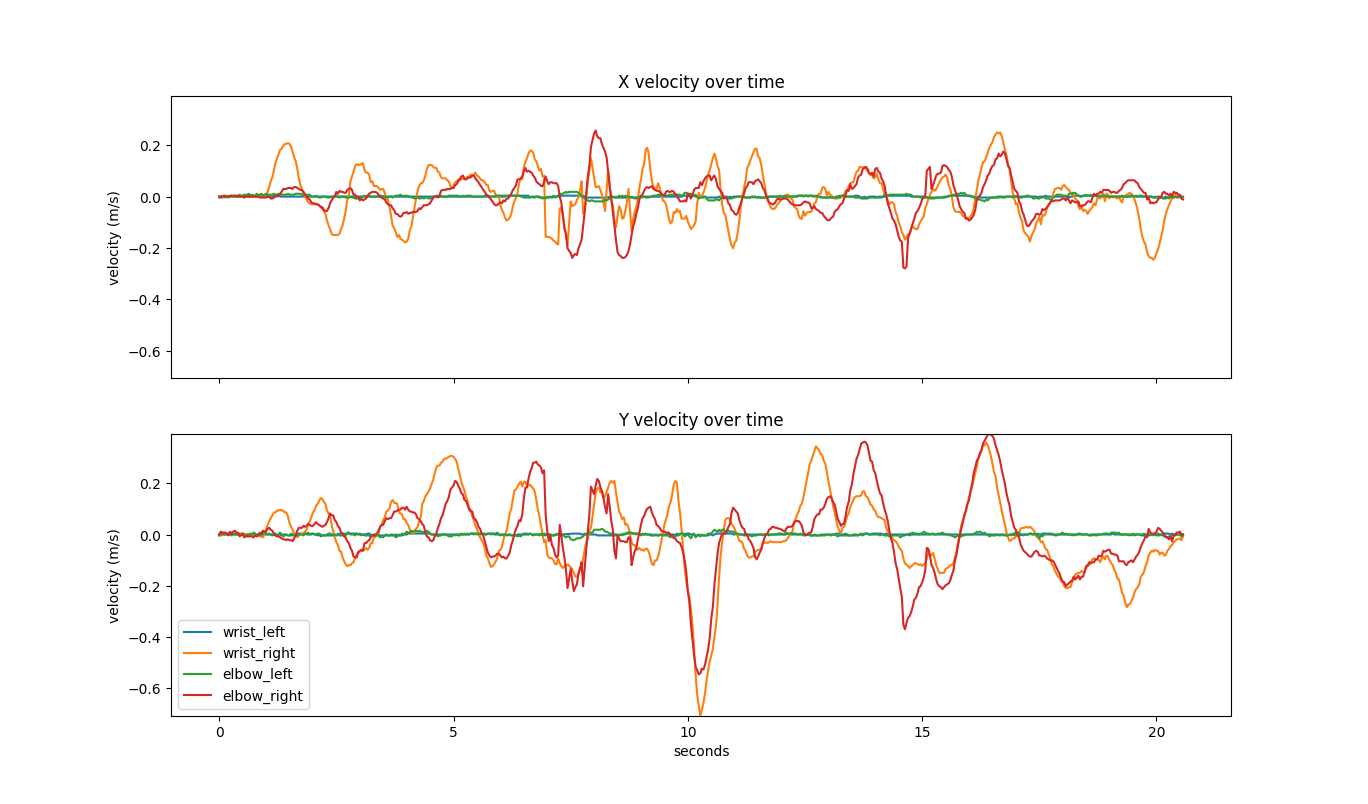
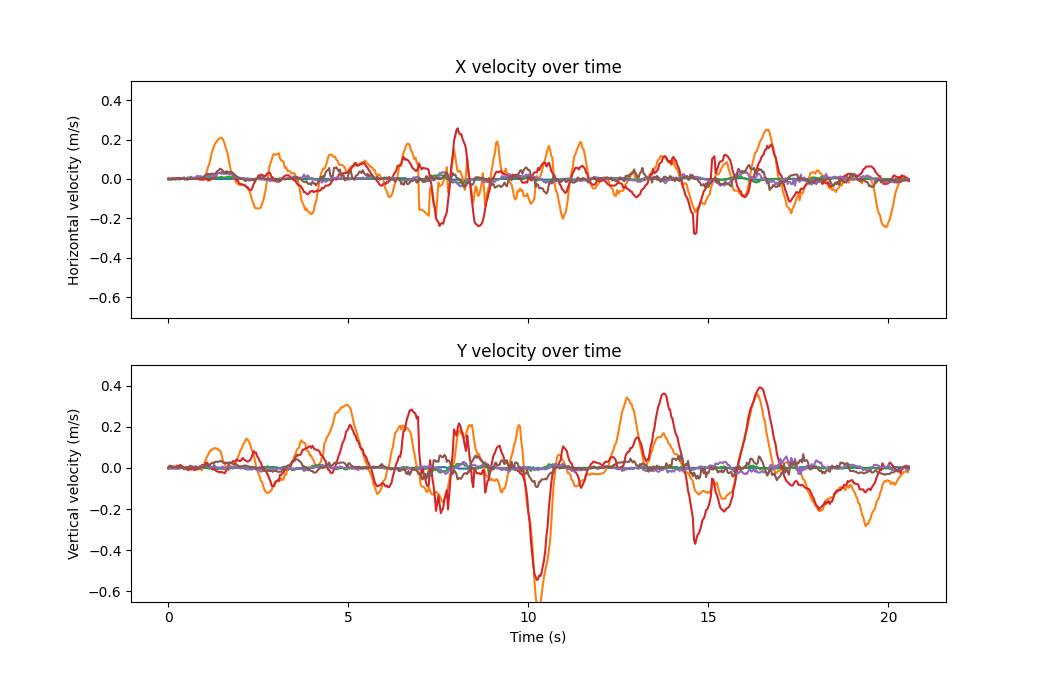
clean up graphs for poster

diff --git a/movement_metrics.py b/movement_metrics.py
@@ -213,6 +213,7 @@ def PlotCentroid(data, keypoints):
     plt.title("Centroid of movement")
     #plt.xlim([-1280/ (scale), 1280/ (scale)])
     #plt.ylim([-720 / (scale), 720 / (scale)])
+    
     plt.axhline(0, color='black')
     plt.axvline(0, color='black')
     figure = plt.gcf()
@@ -268,11 +269,11 @@ def PlotDistFromCenter(normalized, data, keypoints):
     scale = 1.0
     if video_pix_per_m > 0:
         scale = video_pix_per_m
-        plt.xlabel("x Distance (m)")
-        plt.ylabel("y Distance (m)")
+        plt.xlabel("x Distance from Center (m)")
+        plt.ylabel("y Distance from Center (m)")
     else:
-        plt.xlabel("x Pixel Distance")
-        plt.ylabel("y Pixel Distance")
+        plt.xlabel("x Distance from Center (pixel)")
+        plt.ylabel("y Distance from Center (pixel)")
     int_arg = stoi_map['spine_top'] - 1
     mid_x = np_vals[:,0,int_arg]
     mid_y = np_vals[:,1,int_arg]
@@ -300,13 +301,14 @@ def PlotDistFromCenter(normalized, data, keypoints):
     
     plt.legend(labels, markerscale=6)
     if normalized:
-        plt.title("Normalized Distance from Center")
+        plt.title("Absolute Distance from Center")
     else:
         plt.title("Distance from Center")
     
     if not normalized:
         plt.axhline(0, color='black')
         plt.axvline(0, color='black')
+    
     figure = plt.gcf()
     figure.set_size_inches(5.25, 3.5)
 
@@ -435,11 +437,11 @@ def PlotVelocitiesOverTime(data, keypoints):
     scale = 1.0
     if video_pix_per_m > 0:
         scale = video_pix_per_m
-        ax1.set_ylabel("velocity (m/s)")
-        ax2.set_ylabel("velocity (m/s)")
+        ax1.set_ylabel("Horizontal velocity (m/s)")
+        ax2.set_ylabel("Vertical velocity (m/s)")
     else:
-        ax1.set_ylabel("velocity (pixels/s)")
-        ax2.set_ylabel("velocity (pixels/s)")
+        ax1.set_ylabel("Horizontal velocity (pixels/s)")
+        ax2.set_ylabel("Vertical velocity (pixels/s)")
     
     my_min = 100000000000
     my_max = -100000000000
@@ -514,7 +516,9 @@ def PlotVelocitiesOverTime(data, keypoints):
     plt.legend(labels, markerscale=6)
     ax1.set_title("X velocity over time")
     ax2.set_title("Y velocity over time")
-    plt.xlabel("seconds")
+    plt.xlabel("Time (s)")
+    
+    plt.ylim([-0.65, 0.5])
     
     fig.set_size_inches(5.25, 5.5)
 
